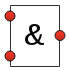
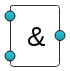
Updates

diff --git a/assets/shapes/index.js b/assets/shapes/index.js
@@ -418,15 +418,15 @@ var draw2d_circuit_gate_AND = draw2d.SetFigure.extend({
      // Port
      port = this.createPort("hybrid", new draw2d.layout.locator.XYRelPortLocator(8.333333333333334, 18.0327868852459));
      port.setConnectionDirection(3);
-     port.setBackgroundColor("#C02B1D");
+     port.setBackgroundColor("#1C9BAB");
      // Port
      port = this.createPort("hybrid", new draw2d.layout.locator.XYRelPortLocator(8.333333333333334, 83.60655737704919));
      port.setConnectionDirection(3);
-     port.setBackgroundColor("#C02B1D");
+     port.setBackgroundColor("#1C9BAB");
      // Port
      port = this.createPort("hybrid", new draw2d.layout.locator.XYRelPortLocator(91.66666666666667, 50));
      port.setConnectionDirection(1);
-     port.setBackgroundColor("#C02B1D");
+     port.setBackgroundColor("#1C9BAB");
      this.persistPorts=false;
    },
 
@@ -448,13 +448,13 @@ var draw2d_circuit_gate_AND = draw2d.SetFigure.extend({
         shape.data("name","BoundingBox");
         
         // Rectangle
-        shape = this.canvas.paper.path('M5.5 0.5L54.5 0.5L54.5 61.5L5.5 61.5Z');
+        shape = this.canvas.paper.path('M5.5,3.5Q5,0 8.5, 0.5L51.5,0.5Q54,0 54.5, 3.5L54.5,58.5Q54,61 51.5, 61.5L8.5,61.5Q5,61 5.5, 58.5L5.5,3.5');
         shape.attr({"stroke":"#303030","stroke-width":1,"fill":"#FFFFFF","opacity":1});
         shape.data("name","Rectangle");
         
         // Label
         shape = this.canvas.paper.text(0,0,'&');
-        shape.attr({"x":19,"y":30,"text-anchor":"start","text":"&","font-family":"\"Arial\"","font-size":30,"stroke":"none","fill":"#080808","stroke-scale":true,"font-weight":"normal","stroke-width":0,"opacity":1});
+        shape.attr({"x":22,"y":31,"text-anchor":"start","text":"&","font-family":"\"Arial\"","font-size":28,"stroke":"none","fill":"#080808","stroke-scale":true,"font-weight":"normal","stroke-width":0,"opacity":1});
         shape.data("name","Label");
         
 

diff --git a/assets/shapes/draw2d_circuit_gate_AND.js b/assets/shapes/draw2d_circuit_gate_AND.js
@@ -16,15 +16,15 @@ var draw2d_circuit_gate_AND = draw2d.SetFigure.extend({
      // Port
      port = this.createPort("hybrid", new draw2d.layout.locator.XYRelPortLocator(8.333333333333334, 18.0327868852459));
      port.setConnectionDirection(3);
-     port.setBackgroundColor("#C02B1D");
+     port.setBackgroundColor("#1C9BAB");
      // Port
      port = this.createPort("hybrid", new draw2d.layout.locator.XYRelPortLocator(8.333333333333334, 83.60655737704919));
      port.setConnectionDirection(3);
-     port.setBackgroundColor("#C02B1D");
+     port.setBackgroundColor("#1C9BAB");
      // Port
      port = this.createPort("hybrid", new draw2d.layout.locator.XYRelPortLocator(91.66666666666667, 50));
      port.setConnectionDirection(1);
-     port.setBackgroundColor("#C02B1D");
+     port.setBackgroundColor("#1C9BAB");
      this.persistPorts=false;
    },
 
@@ -46,13 +46,13 @@ var draw2d_circuit_gate_AND = draw2d.SetFigure.extend({
         shape.data("name","BoundingBox");
         
         // Rectangle
-        shape = this.canvas.paper.path('M5.5 0.5L54.5 0.5L54.5 61.5L5.5 61.5Z');
+        shape = this.canvas.paper.path('M5.5,3.5Q5,0 8.5, 0.5L51.5,0.5Q54,0 54.5, 3.5L54.5,58.5Q54,61 51.5, 61.5L8.5,61.5Q5,61 5.5, 58.5L5.5,3.5');
         shape.attr({"stroke":"#303030","stroke-width":1,"fill":"#FFFFFF","opacity":1});
         shape.data("name","Rectangle");
         
         // Label
         shape = this.canvas.paper.text(0,0,'&');
-        shape.attr({"x":19,"y":30,"text-anchor":"start","text":"&","font-family":"\"Arial\"","font-size":30,"stroke":"none","fill":"#080808","stroke-scale":true,"font-weight":"normal","stroke-width":0,"opacity":1});
+        shape.attr({"x":22,"y":31,"text-anchor":"start","text":"&","font-family":"\"Arial\"","font-size":28,"stroke":"none","fill":"#080808","stroke-scale":true,"font-weight":"normal","stroke-width":0,"opacity":1});
         shape.data("name","Label");
         
 
